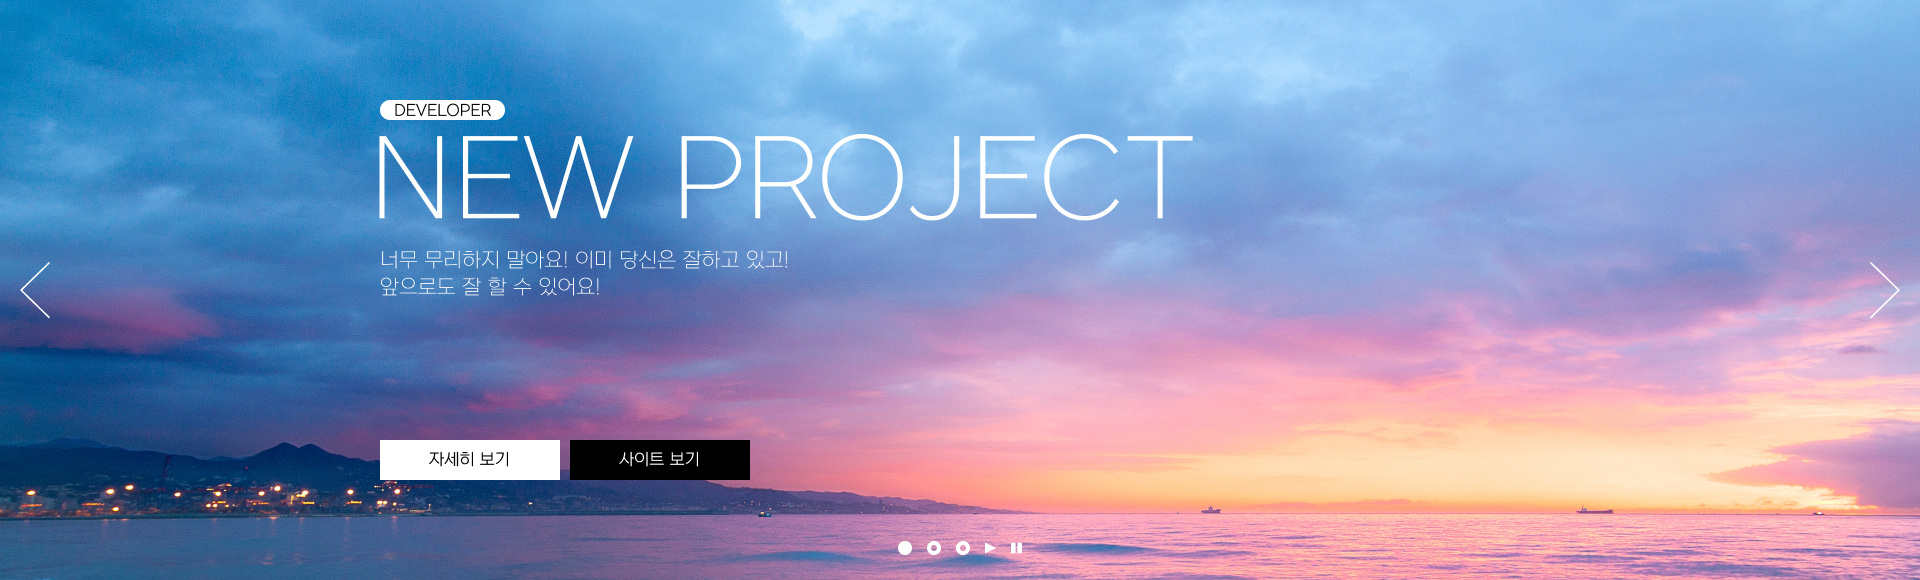
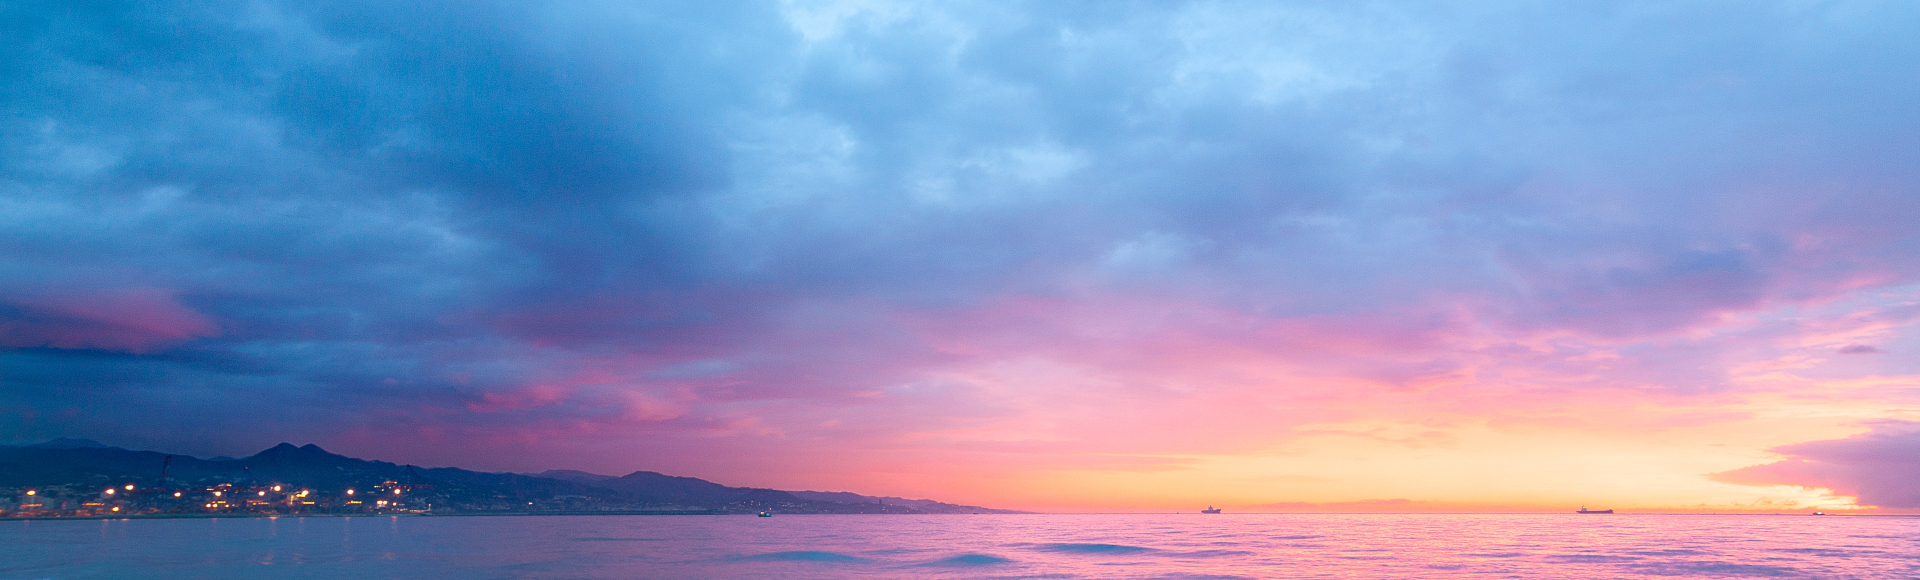
220905
집가서

diff --git a/site/site1/index.html b/site/site1/index.html
@@ -63,7 +63,36 @@
 
     <main id="mainType">
       <section id="sliderType" class="slider__wrap">
-        <h2>슬라이드 영역</h2>
+        <h2 class="blind">슬라이드영역</h2>
+        <div class="slider__inner">
+          <div class="slider">
+            <div class="slider__img">
+              <div class="desc">
+                <span>달밤의체조</span>
+                <h3>달밤의체조</h3>
+                <p>
+                  달밤의체조달밤의체조달밤의체조달밤의체조<br />
+                  달밤의체조달밤의체조
+                </p>
+                <div class="btn">
+                  <a href="#">자세히 보기</a>
+                  <a href="#" class="black">사이트 보기</a>
+                </div>
+              </div>
+            </div>
+            <div class="slider__arrow">
+              <a href="#" class="left"><span class="ir">이전 이미지</span></a>
+              <a href="#" class="right"><span class="ir">다음 이미지</span></a>
+            </div>
+            <div class="slider__dot">
+              <a href="#" class="dot active"><span class="ir">1</span></a>
+              <a href="#" class="dot"><span class="ir">2</span></a>
+              <a href="#" class="dot"><span class="ir">3</span></a>
+              <a href="#" class="play"><span class="ir">플레이</span></a>
+              <a href="#" class="stop"><span class="ir">정지</span></a>
+            </div>
+          </div>
+        </div>
       </section>
       <!--//sliderType-->
 
@@ -261,60 +290,74 @@
     </main>
     <!-- //mainType -->
 
-    <footer id="footerType" class="footer__wrap nexon section gray">
+    <footer id="footerType" class="footer__wrap nexon section">
       <h2 class="blind">푸터 영역</h2>
-      <div class="footer__iner container">
+      <div class="footer__inner container">
         <div class="footer__menu">
           <div>
             <h3>사이트</h3>
             <ul>
-              <li><a href="#">웹표준 사이트</a></li>
-              <li><a href="#">반응형 사이트</a></li>
-              <li><a href="#">페럴랙스 사이트</a></li>
-              <li><a href="#">포트폴리오 사이트</a></li>
+              <li><a href="/">웹표준 사이트</a></li>
+              <li><a href="/">반응형 사이트</a></li>
+              <li><a href="/">페럴럭스 사이트</a></li>
+              <li><a href="/">포트폴리오 사이트</a></li>
+            </ul>
+          </div>
+          <div>
+            <h3>사이트</h3>
+            <ul>
+              <li><a href="/">웹표준 사이트</a></li>
+              <li><a href="/">반응형 사이트</a></li>
+              <li><a href="/">페럴럭스 사이트</a></li>
+              <li><a href="/">포트폴리오 사이트</a></li>
             </ul>
           </div>
           <div>
             <h3>헤더 영역</h3>
             <ul>
-              <li><a href="#">메뉴 유형01</a></li>
-              <li><a href="#">메뉴 유형02</a></li>
+              <li><a href="/">메뉴 유형01</a></li>
+              <li><a href="/">메뉴 유형02</a></li>
             </ul>
           </div>
           <div>
-            <h3>슬라이드 영역</h3>
+            <h3>슬아이드 영역</h3>
             <ul>
-              <li><a href="#">슬라이드 유형01</a></li>
-              <li><a href="#">슬라이드 유형02</a></li>
+              <li><a href="/">슬라이드 유형01</a></li>
+              <li><a href="/">슬라이드 유형02</a></li>
             </ul>
           </div>
           <div>
             <h3>이미지 영역</h3>
             <ul>
-              <li><a href="#">이미지 유형01</a></li>
-              <li><a href="#">이미지 유형02</a></li>
-              <li><a href="#">이미지/텍스트 유형01</a></li>
-              <li><a href="#">이미지/텍스트 유형02</a></li>
-              <li><a href="#">텍스트 유형01</a></li>
+              <li><a href="/">이미지 유형01</a></li>
+              <li><a href="/">이미지 유형02</a></li>
+              <li><a href="/">이미지/텍스트 유형01</a></li>
+              <li><a href="/">이미지/텍스트 유형02</a></li>
+              <li><a href="/">텍스트 유형01</a></li>
             </ul>
           </div>
           <div>
             <h3>컨텐츠 영역</h3>
             <ul>
-              <li><a href="#">카드 유형01</a></li>
-              <li><a href="#">카드 유형02</a></li>
-              <li><a href="#">카드 유형03</a></li>
+              <li><a href="/">카드 유형01</a></li>
+              <li><a href="/">카드 유형02</a></li>
+              <li><a href="/">카드 유형03</a></li>
             </ul>
           </div>
           <div>
             <h3>푸터 영역</h3>
             <ul>
-              <li><a href="#">푸터 메뉴 유형01</a></li>
-              <li><a href="#">푸터 컨택트 유형02</a></li>
-              <li><a href="#">푸터 이메일 유형03</a></li>
+              <li><a href="/">푸터 메뉴 유형01</a></li>
+              <li><a href="/">푸터 컨텍트 유형02</a></li>
+              <li><a href="/">푸터 이메일 유형03</a></li>
             </ul>
           </div>
+          `
         </div>
+      </div>
+      <div class="footer__right">
+        2022 Syumay. Portfolio is Power<br />
+        All rights reserved.
       </div>
     </footer>
     <!-- //footerType -->

diff --git a/blog_vscode/prettier.html b/blog_vscode/prettier.html
@@ -1,0 +1,82 @@
+<!DOCTYPE html>
+<html lang="ko">
+  <head>
+    <meta charset="UTF-8" />
+    <meta http-equiv="X-UA-Compatible" content="IE=edge" />
+    <meta name="viewport" content="width=device-width, initial-scale=1.0" />
+    <title>vscode_prettier 설정법</title>
+
+    <link rel="stylesheet" href="../../../javascript/assets/css/style.css" />
+    <link rel="stylesheet" href="../../../javascript/assets/css/dracula.css" />
+  </head>
+  <style>
+    img {
+      width: 100%;
+    }
+  </style>
+  <body>
+    <header id="header"></header>
+    <!-- //header -->
+    <main id="main">
+      <!--main start-->
+      <div class="document">
+        <h2 class="t_tit">[VSCode] Prettier 설정 / 적용 오류 해결법</h2>
+        <p class="t_desc2">
+          VSCode Extension 중에 코드를 <i>자동으로 정렬</i>해 주는 <i>Prettier</i>를 아시나요? Prettier는 코드를 자동으로 정렬해 줄 뿐만 아니라
+          사용자의 옵션에 따라 커스텀을 해서 사용할 수 있습니다. 설치방법과 간단한 오류 해결법에 대해 알아보겠습니다.
+        </p>
+        <img src="img/vscode_ prettier01.jpg" alt="1" />
+        <hr />
+        <h2 class="t_tit2">■ 설치하기</h2>
+        <img src="img/vscode_ prettier02.jpg" alt="2" />
+        <p class="t_desc">1. VSCode Extenstion탭에서 'Prettier'검색 후 설치해줍니다.</p>
+        <img src="img/vscode_ prettier03.jpg" alt="3" />
+        <p>2. 환경설정(Preference) - 'Default Formatter' 검색한 뒤 설정을 <i>'prettier'로 변경</i>해줍니다.<br />끝</p>
+
+        <img src="img/vscode_ prettier_111111.jpg" alt="결과" />
+        <p class="t_desc">별다른 오류가 없다면 재실행 후 작업 이후 <i>Ctrl + S</i>를 통해 저장하면 Prettier가 알아서 이쁘게 정렬해 줍니다.</p>
+        <h2 class="t_tit2">■ 작동이 안되는 경우🤦♀</h2>
+        <p class="t_desc">
+          검색창에 'json'을 검새한 뒤 <i>Edit in setting.json</i>파일로 들어가 <i>editor.formatOnSave의 값이 true</i>인지 확인해보세요.
+        </p>
+        <img src="img/vscode_ prettier04.jpg" alt="4" />
+        <h2 class="t_tit2">■ 설정 가능한 커스텀 옵션</h2>
+        <pre class="t_box">
+  "arrowParens": "avoid", // 화살표 함수 괄호 사용 방식
+  "bracketSpacing": false, // 객체 리터럴에서 괄호에 공백 삽입 여부 
+  "endOfLine": "auto", // EoF 방식, OS별로 처리 방식이 다름 
+  "htmlWhitespaceSensitivity": "css", // HTML 공백 감도 설정
+  "jsxBracketSameLine": false, // JSX의 마지막 `>`를 다음 줄로 내릴지 여부 
+  "jsxSingleQuote": false, // JSX에 singe 쿼테이션 사용 여부
+  "printWidth": 80, //  줄 바꿈 할 폭 길이
+  "proseWrap": "preserve", // markdown 텍스트의 줄바꿈 방식 (v1.8.2)
+  "quoteProps": "as-needed" // 객체 속성에 쿼테이션 적용 방식
+  "semi": true, // 세미콜론 사용 여부
+  "singleQuote": true, // single 쿼테이션 사용 여부
+  "tabWidth": 2, // 탭 너비 
+  "trailingComma": "all", // 여러 줄을 사용할 때, 후행 콤마 사용 방식
+  "useTabs": false, // 탭 사용 여부
+  "vueIndentScriptAndStyle": true, // Vue 파일의 script와 style 태그의 들여쓰기 여부 (v1.19.0)
+  "parser": '', // 사용할 parser를 지정, 자동으로 지정됨
+  "filepath": '', // parser를 유추할 수 있는 파일을 지정
+  "rangeStart": 0, // 포맷팅을 부분 적용할 파일의 시작 라인 지정
+  "rangeEnd": Infinity, // 포맷팅 부분 적용할 파일의 끝 라인 지정,
+  "requirePragma": false, // 파일 상단에 미리 정의된 주석을 작성하고 Pragma로 포맷팅 사용 여부 지정 (v1.8.0)
+  "insertPragma": false, // 미리 정의된 @format marker의 사용 여부 (v1.8.0)
+        </pre>
+        <br />
+        <img src="img/vscode_ prettier05.jpg" alt="5" />
+        <p class="t_desc">※ 환경설정에서 'prettier'를 검색해서 간편하게 설정할 수도 있습니다.</p>
+      </div>
+    </main>
+    <!-- //main end -->
+    <footer id="footer">
+      <a href="mailto:sshin4882@naver.com">sshin4882@naver.com</a>
+    </footer>
+    <!-- //footer -->
+    <script src="../../../javascript/assets/js/highlight.min.js"></script>
+    <script>
+      hljs.highlightAll();
+    </script>
+  </body>
+</html>

diff --git a/site/site1/assets/css/slider.css b/site/site1/assets/css/slider.css
@@ -5,11 +5,13 @@
   position: relative;
 }
 .slider__img {
-  background-image: url(../../../slideType/img/SLIDER-TYPE01.jpg);
+  background: url(../img/SLIDER-TYPE01.jpg) no-repeat center / cover;
 }
-
-/* dddddddddddddddddddddd */
-
+.slider__img .desc {
+  width: 1160px;
+  margin: 0 auto;
+  padding: 100px 20px;
+}
 .slider__img .desc span {
   font-size: 16px;
   background-color: #fff;
@@ -23,7 +25,7 @@
   font-size: 110px;
   font-weight: 300;
   line-height: 1;
-  color: white;
+  color: #fff;
   text-transform: uppercase;
   margin-bottom: 16px;
   margin-left: -8px;
@@ -31,46 +33,46 @@
 .slider__img .desc p {
   font-size: 20px;
   font-weight: 300;
-  color: white;
+  color: #fff;
   line-height: 1.35;
   margin-bottom: 130px;
 }
 .slider__img .desc .btn a {
   font-size: 16px;
-  background-color: white;
+  background-color: #fff;
   padding: 11px 50px;
   display: inline-block;
 }
 .slider__img .desc .btn a.black {
-  background: black;
-  color: white;
+  background: #000;
+  color: #fff;
 }
 .slider__arrow a {
   position: absolute;
   top: 50%;
-  transform: translateY(-50%);
   width: 30px;
   height: 56px;
-  background-image: url(../../../slideType/img/slider_icon.svg);
+  transform: translateY(-50%);
+  background-image: url(../img/slider_icon.svg);
 }
 .slider__arrow a.left {
   left: 20px;
 }
 .slider__arrow a.right {
   right: 20px;
-  background-position: -50px 0;
+  background-position: -40px 0;
 }
 .slider__dot {
   position: absolute;
   left: 50%;
-  transform: translateY(-50%);
+  transform: translateX(-50%);
   bottom: 25px;
 }
 .slider__dot a {
   display: inline-block;
   width: 16px;
   height: 16px;
-  background-image: url(../../../slideType/img/slider_icon.svg);
+  background-image: url(../img/slider_icon.svg);
   background-position: -20px -70px;
 }
 .slider__dot a.active {

diff --git a/site/site1/assets/css/footer.css b/site/site1/assets/css/footer.css
@@ -1,0 +1,24 @@
+.footer__menu {
+  display: flex;
+  margin-bottom: 70px;
+}
+.footer__menu > div {
+  width: 16%;
+}
+.footer__menu h3 {
+  font-size: 18px;
+  margin-bottom: 20px;
+}
+.footer__menu li a {
+  font-size: 14px;
+  color: #666;
+  margin: 10px 0;
+  display: block;
+}
+.footer__right {
+  border-top: 1px solid #d9d9d9;
+  text-align: center;
+  padding-top: 40px;
+  color: #666;
+  line-height: 1.5;
+}

diff --git a/site/site1/assets/css/banner.css b/site/site1/assets/css/banner.css
@@ -1,5 +1,5 @@
 .banner__inner {
-  background-image: url(../../../bannerType/img/banner_bg01.jpg);
+  background-image: url(../img/banner_bg01.jpg);
   background-repeat: no-repeat;
   background-position: center;
   background-size: cover;
